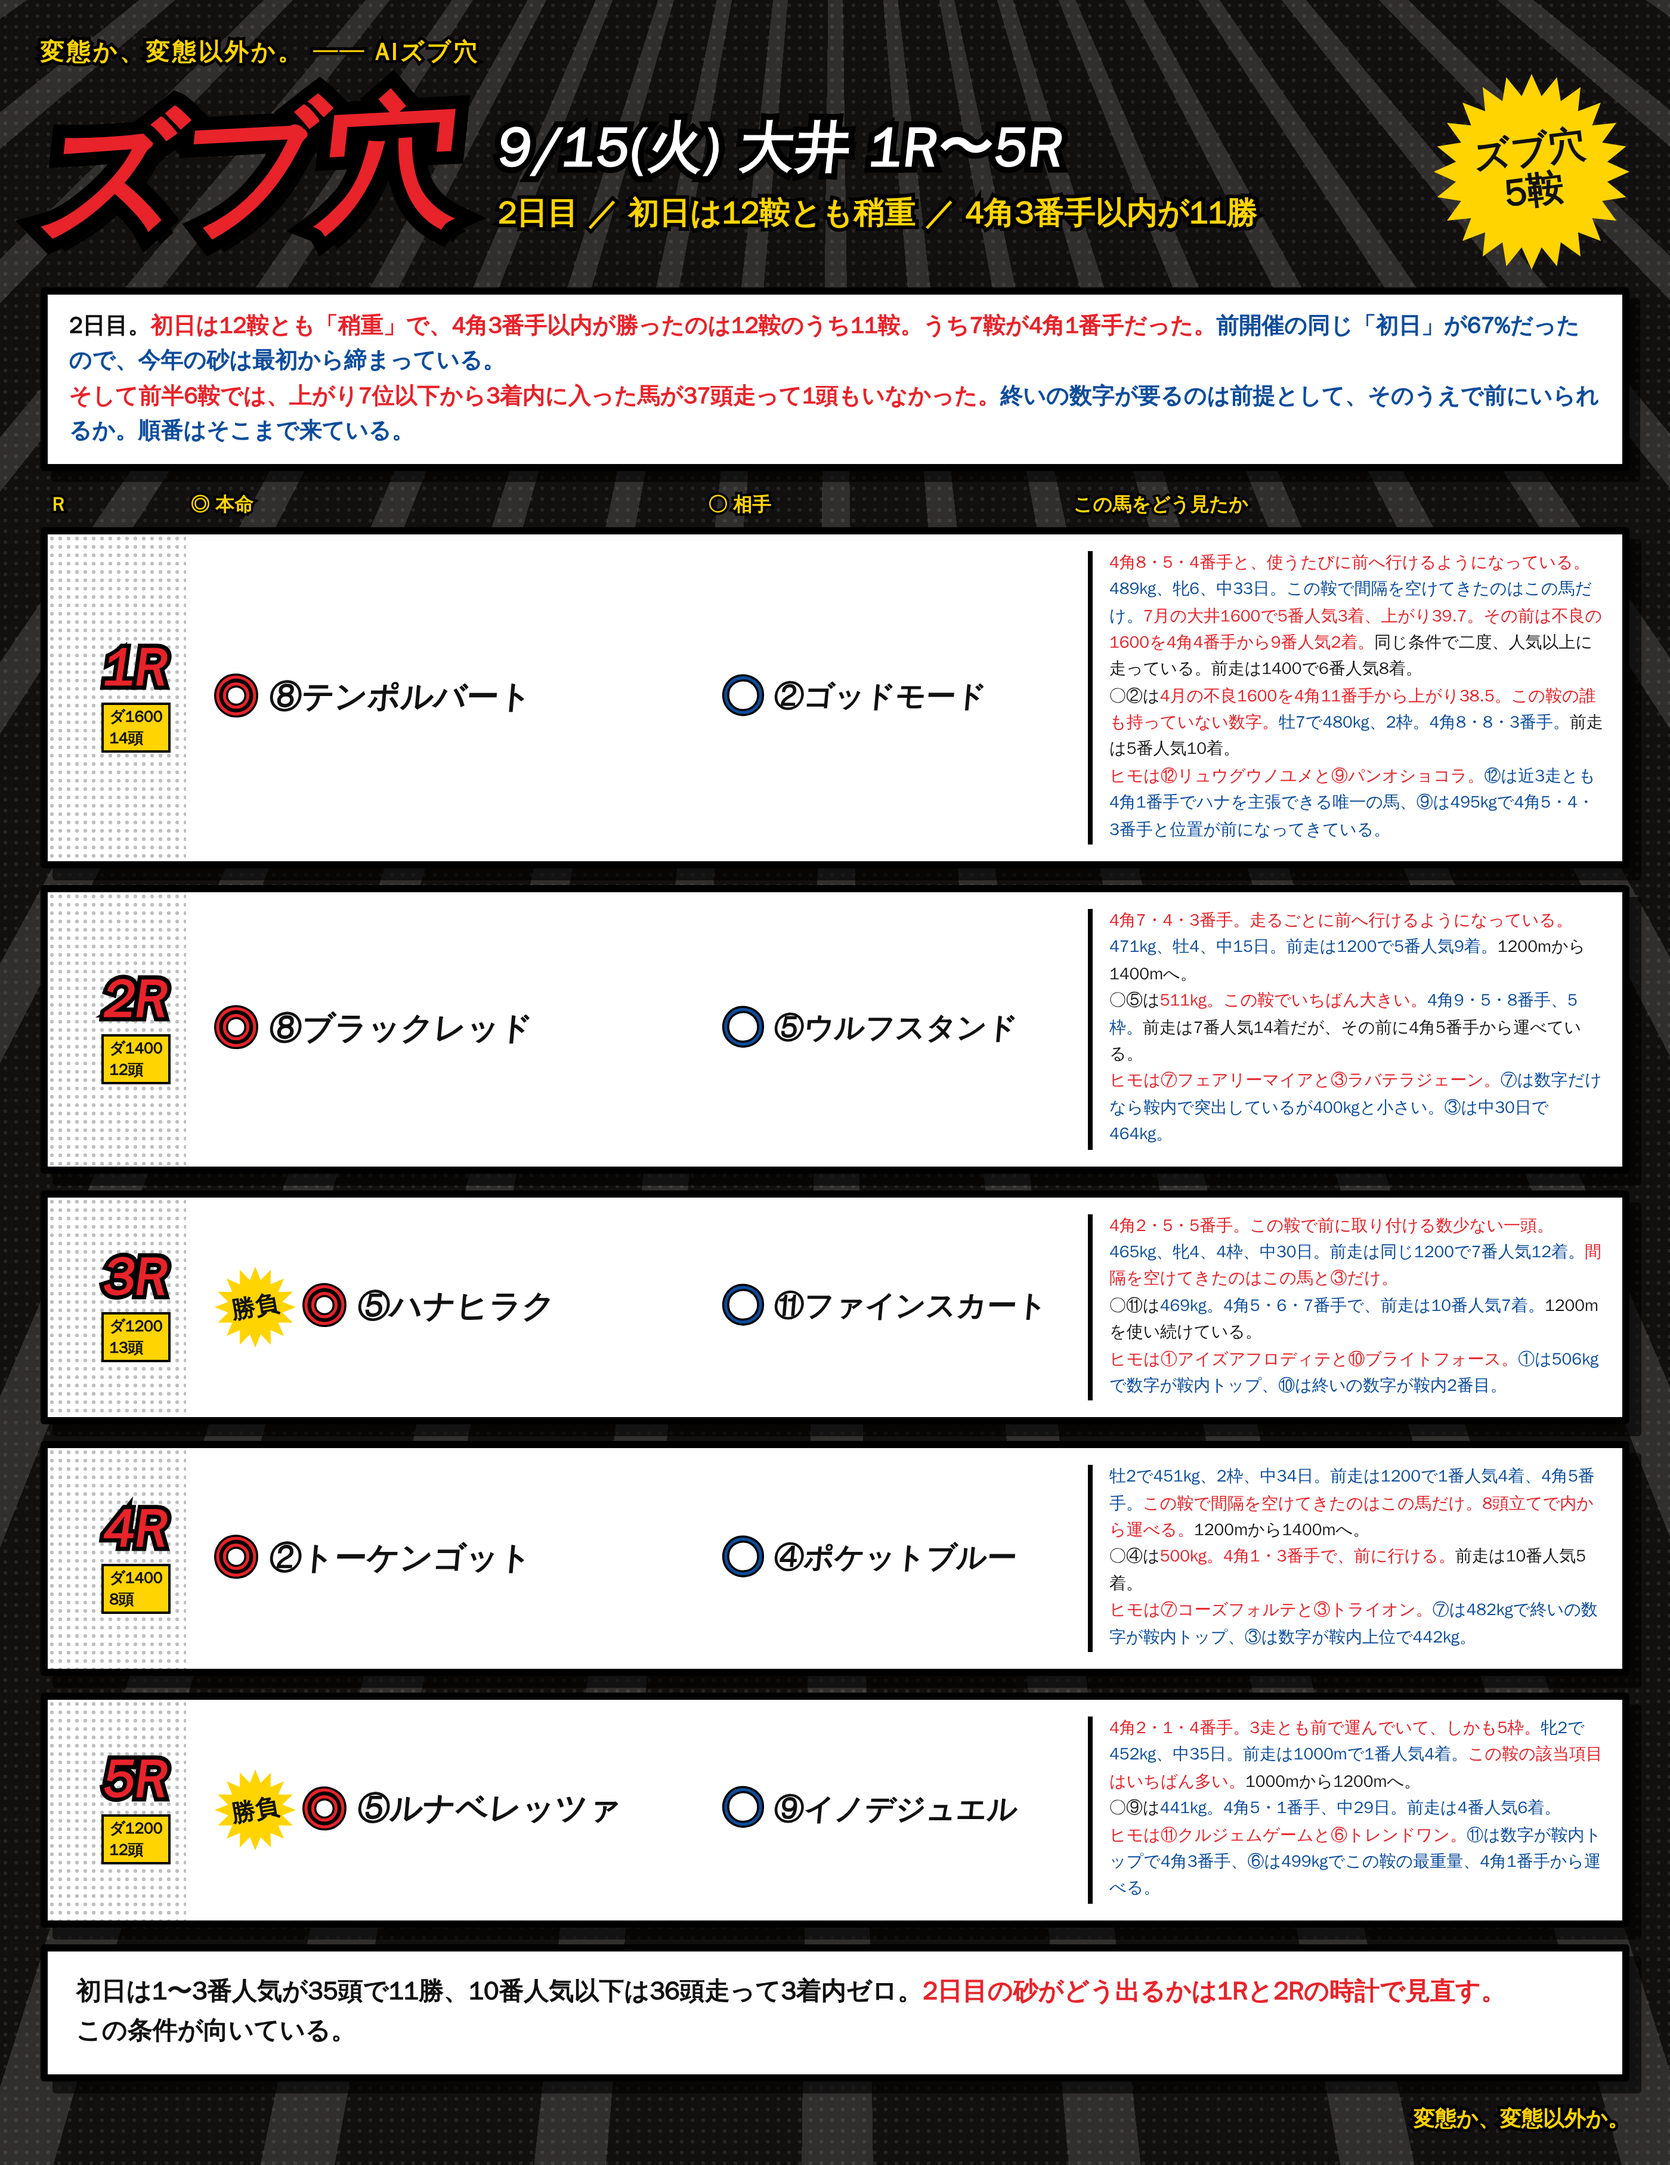
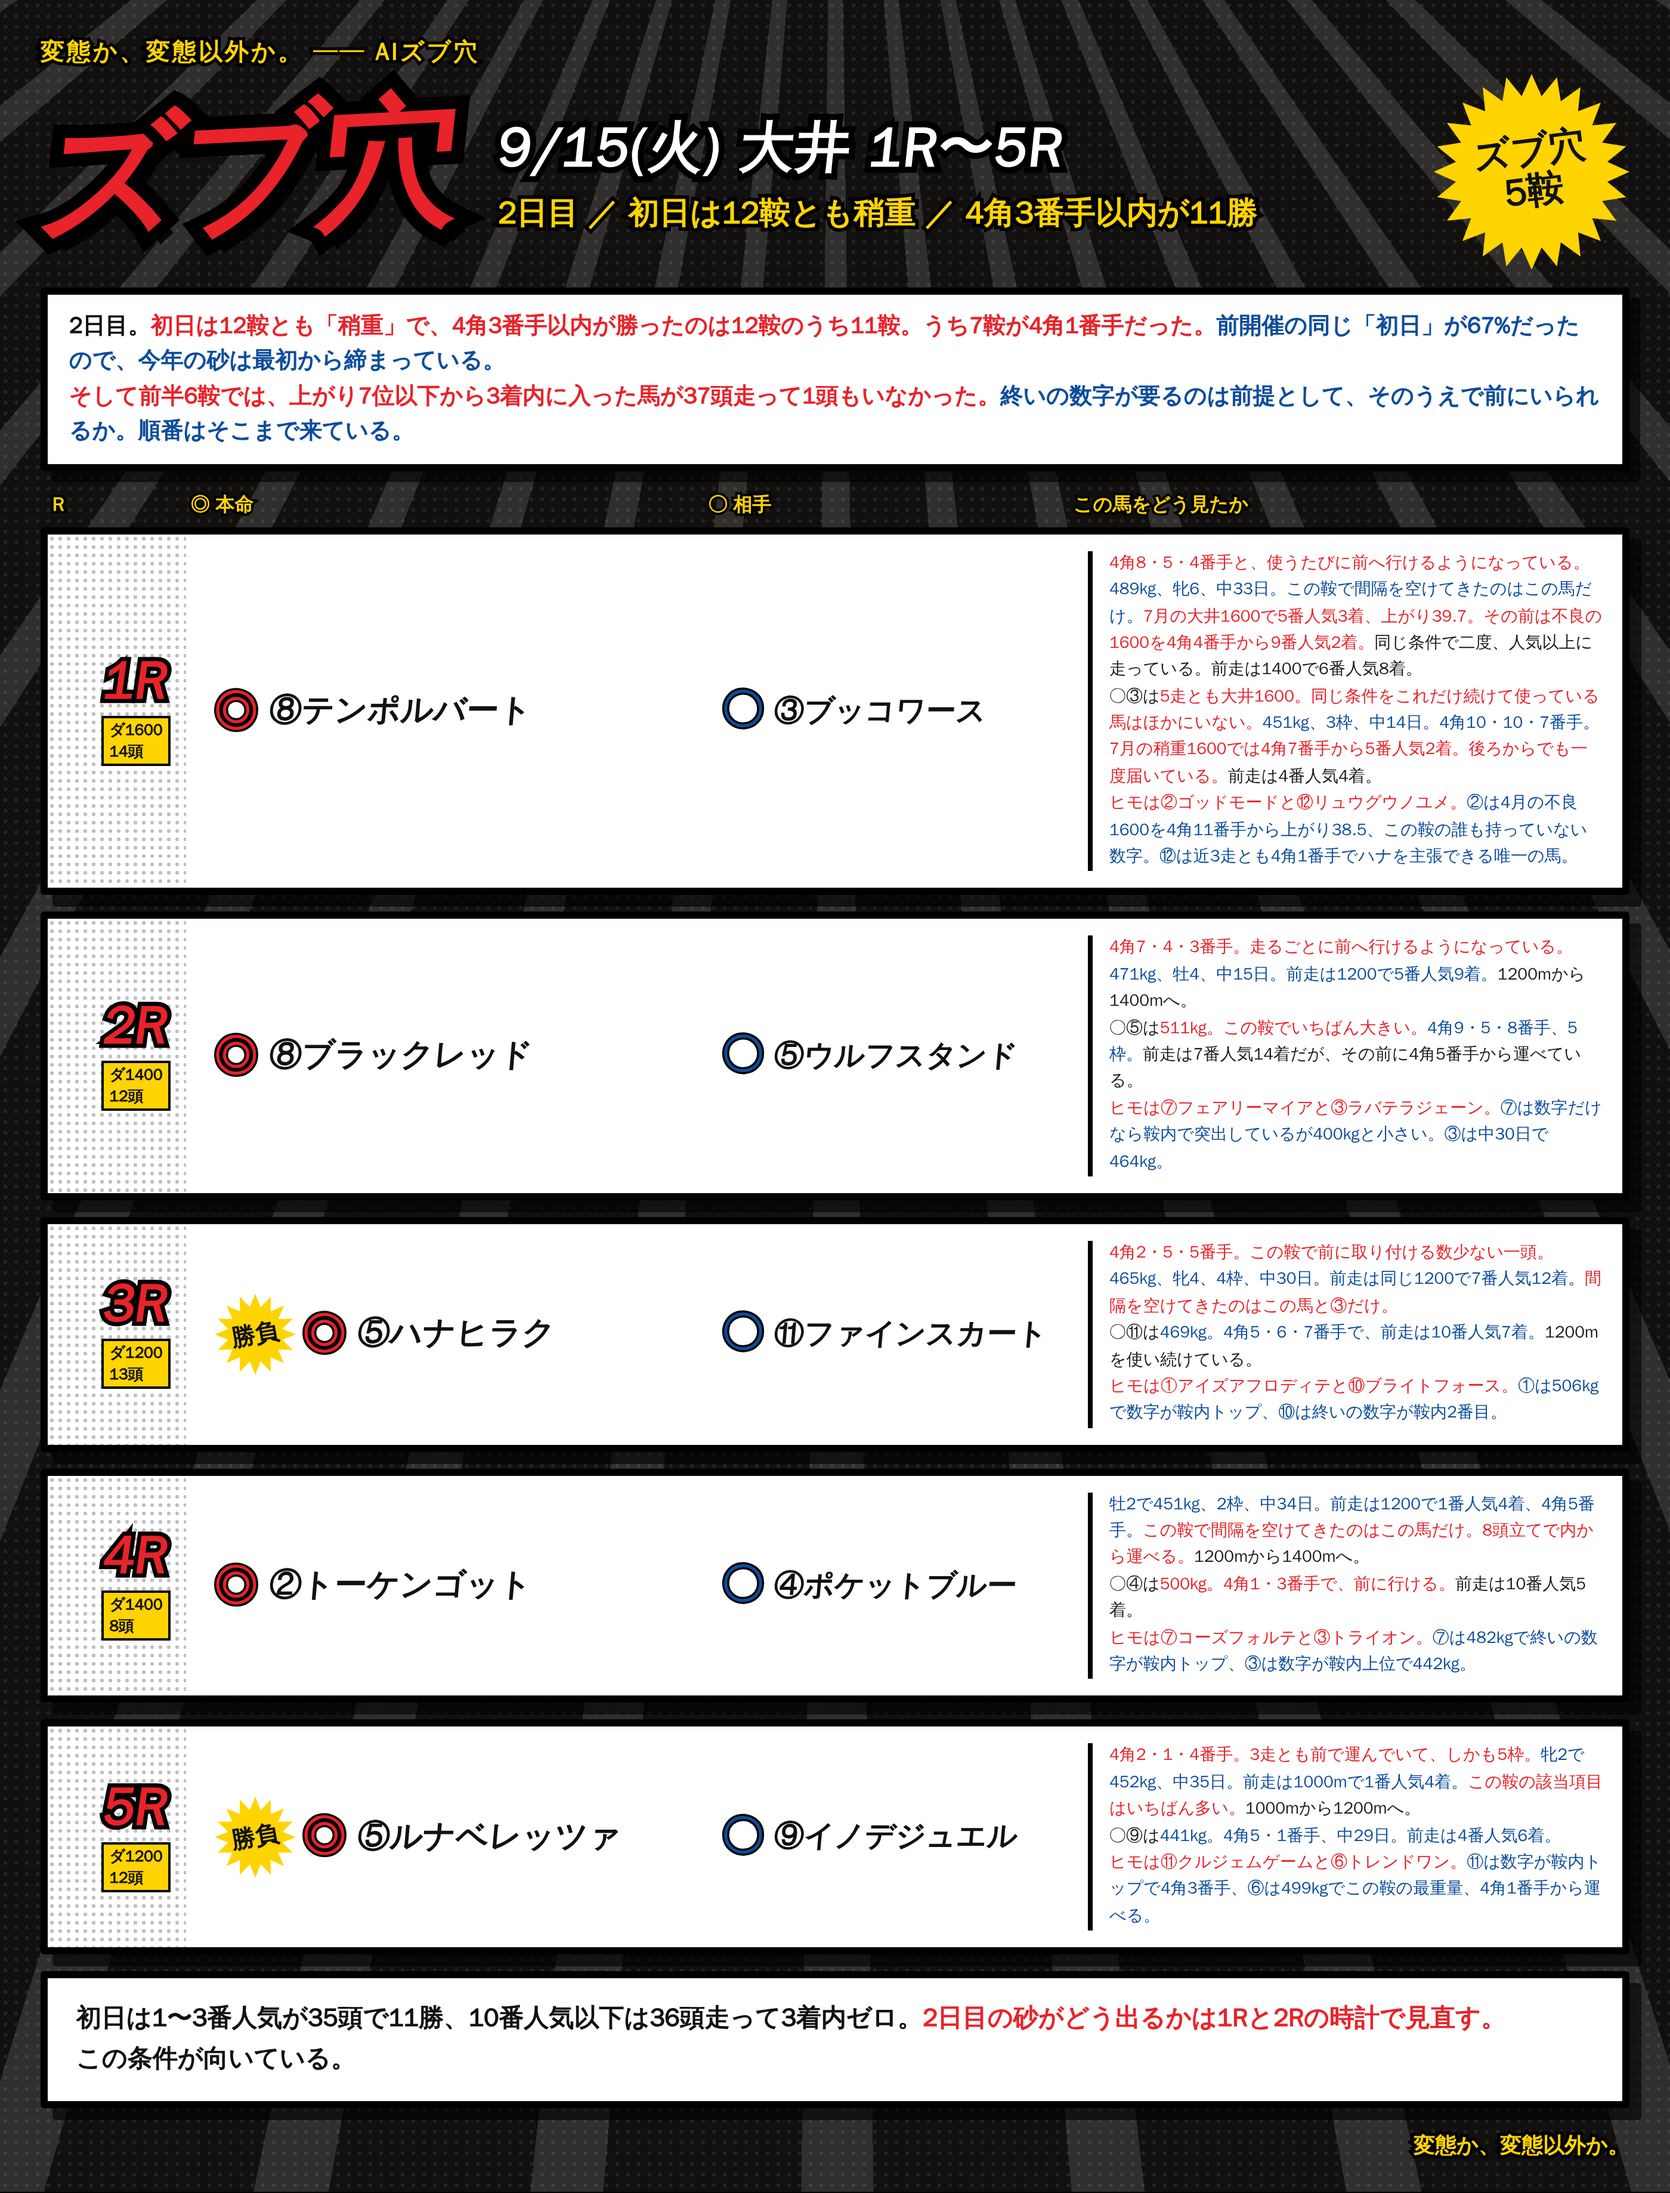
大井 9/15: 1Rを○③ブッコワース、ヒモに②ゴッドモードと⑫リュウグウノユメ
Claude-Session: https://claude.ai/code/session_01RoHscZkr96FNaxQWvUqgEw

diff --git a/notes/live/2026-09-15/oi_1_5.html b/notes/live/2026-09-15/oi_1_5.html
@@ -81,7 +81,7 @@
 <div class="head"><div class="gekiga">ズブ穴</div><div class="dateblk"><div class="d1">9/15(火) 大井 1R〜5R</div><div class="d2">2日目 ／ 初日は12鞍とも稍重 ／ 4角3番手以内が11勝</div></div><div class="burst"><span>ズブ穴<br>5鞍</span></div></div>
 <div class="lead">2日目。<span class="r">初日は12鞍とも「稍重」で、4角3番手以内が勝ったのは12鞍のうち11鞍。うち7鞍が4角1番手だった。</span><span class="b">前開催の同じ「初日」が67%だったので、今年の砂は最初から締まっている。</span><br><span class="r">そして前半6鞍では、上がり7位以下から3着内に入った馬が37頭走って1頭もいなかった。</span><span class="b">終いの数字が要るのは前提として、そのうえで前にいられるか。順番はそこまで来ている。</span></div>
 <div class="cols"><div class="cR">R</div><div class="cH">◎ 本命</div><div class="cA">○ 相手</div><div class="cM">この馬をどう見たか</div></div>
-<div class="row"><div class="corner"></div><div class="rN"><div class="n">1R</div><div class="d">ダ1600<br>14頭</div></div><div class="hm"><span class="mk">◎</span><span class="nm">⑧テンポルバート</span></div><div class="at"><span class="mk2">○</span><span class="nm2">②ゴッドモード</span></div><div class="memo"><b class="r">4角8・5・4番手と、使うたびに前へ行けるようになっている。</b><b>489kg、牝6、中33日。この鞍で間隔を空けてきたのはこの馬だけ。</b><b class="r">7月の大井1600で5番人気3着、上がり39.7。その前は不良の1600を4角4番手から9番人気2着。</b>同じ条件で二度、人気以上に走っている。前走は1400で6番人気8着。<br>○②は<b class="r">4月の不良1600を4角11番手から上がり38.5。この鞍の誰も持っていない数字。</b><b>牡7で480kg、2枠。4角8・8・3番手。</b>前走は5番人気10着。<br><b class="r">ヒモは⑫リュウグウノユメと⑨パンオショコラ。</b><b>⑫は近3走とも4角1番手でハナを主張できる唯一の馬、⑨は495kgで4角5・4・3番手と位置が前になってきている。</b></div></div>
+<div class="row"><div class="corner"></div><div class="rN"><div class="n">1R</div><div class="d">ダ1600<br>14頭</div></div><div class="hm"><span class="mk">◎</span><span class="nm">⑧テンポルバート</span></div><div class="at"><span class="mk2">○</span><span class="nm2">③ブッコワース</span></div><div class="memo"><b class="r">4角8・5・4番手と、使うたびに前へ行けるようになっている。</b><b>489kg、牝6、中33日。この鞍で間隔を空けてきたのはこの馬だけ。</b><b class="r">7月の大井1600で5番人気3着、上がり39.7。その前は不良の1600を4角4番手から9番人気2着。</b>同じ条件で二度、人気以上に走っている。前走は1400で6番人気8着。<br>○③は<b class="r">5走とも大井1600。同じ条件をこれだけ続けて使っている馬はほかにいない。</b><b>451kg、3枠、中14日。4角10・10・7番手。</b><b class="r">7月の稍重1600では4角7番手から5番人気2着。後ろからでも一度届いている。</b>前走は4番人気4着。<br><b class="r">ヒモは②ゴッドモードと⑫リュウグウノユメ。</b><b>②は4月の不良1600を4角11番手から上がり38.5、この鞍の誰も持っていない数字。⑫は近3走とも4角1番手でハナを主張できる唯一の馬。</b></div></div>
 <div class="row"><div class="corner"></div><div class="rN"><div class="n">2R</div><div class="d">ダ1400<br>12頭</div></div><div class="hm"><span class="mk">◎</span><span class="nm">⑧ブラックレッド</span></div><div class="at"><span class="mk2">○</span><span class="nm2">⑤ウルフスタンド</span></div><div class="memo"><b class="r">4角7・4・3番手。走るごとに前へ行けるようになっている。</b><b>471kg、牡4、中15日。前走は1200で5番人気9着。</b>1200mから1400mへ。<br>○⑤は<b class="r">511kg。この鞍でいちばん大きい。</b><b>4角9・5・8番手、5枠。</b>前走は7番人気14着だが、その前に4角5番手から運べている。<br><b class="r">ヒモは⑦フェアリーマイアと③ラバテラジェーン。</b><b>⑦は数字だけなら鞍内で突出しているが400kgと小さい。③は中30日で464kg。</b></div></div>
 <div class="row"><div class="corner"></div><div class="rN"><div class="n">3R</div><div class="d">ダ1200<br>13頭</div></div><div class="hm"><div class="sb"><span>勝負</span></div><span class="mk">◎</span><span class="nm">⑤ハナヒラク</span></div><div class="at"><span class="mk2">○</span><span class="nm2">⑪ファインスカート</span></div><div class="memo"><b class="r">4角2・5・5番手。この鞍で前に取り付ける数少ない一頭。</b><b>465kg、牝4、4枠、中30日。前走は同じ1200で7番人気12着。</b><b class="r">間隔を空けてきたのはこの馬と③だけ。</b><br>○⑪は<b>469kg。4角5・6・7番手で、前走は10番人気7着。</b>1200mを使い続けている。<br><b class="r">ヒモは①アイズアフロディテと⑩ブライトフォース。</b><b>①は506kgで数字が鞍内トップ、⑩は終いの数字が鞍内2番目。</b></div></div>
 <div class="row"><div class="corner"></div><div class="rN"><div class="n">4R</div><div class="d">ダ1400<br>8頭</div></div><div class="hm"><span class="mk">◎</span><span class="nm">②トーケンゴット</span></div><div class="at"><span class="mk2">○</span><span class="nm2">④ポケットブルー</span></div><div class="memo"><b>牡2で451kg、2枠、中34日。前走は1200で1番人気4着、4角5番手。</b><b class="r">この鞍で間隔を空けてきたのはこの馬だけ。8頭立てで内から運べる。</b>1200mから1400mへ。<br>○④は<b class="r">500kg。4角1・3番手で、前に行ける。</b>前走は10番人気5着。<br><b class="r">ヒモは⑦コーズフォルテと③トライオン。</b><b>⑦は482kgで終いの数字が鞍内トップ、③は数字が鞍内上位で442kg。</b></div></div>

diff --git a/notes/live/2026-09-15/README.md b/notes/live/2026-09-15/README.md
@@ -12,7 +12,7 @@
 
 | R | 条件 | ◎ | ○ | ヒモ |
 |---|---|---|---|---|
-| 1R | ダ1600 14頭 Ｃ３ | ⑧テンポルバート | ②ゴッドモード | ⑫リュウグウノユメ ⑨パンオショコラ |
+| 1R | ダ1600 14頭 Ｃ３ | ⑧テンポルバート | ③ブッコワース | ②ゴッドモード ⑫リュウグウノユメ |
 | 2R | ダ1400 12頭 Ｃ３ | ⑧ブラックレッド | ⑤ウルフスタンド | ⑦フェアリーマイア ③ラバテラジェーン |
 | **3R【勝負】** | ダ1200 13頭 Ｃ３ | ⑤ハナヒラク | ⑪ファインスカート | ①アイズアフロディテ ⑩ブライトフォース |
 | 4R | ダ1400 8頭 2歳 | ②トーケンゴット | ④ポケットブルー | ⑦コーズフォルテ ③トライオン |
@@ -21,8 +21,8 @@
 ◎はすべて前走で馬券になっていない馬から。勝負は3Rと5R。
 
 内部メモ（カードには載せない）:
-- 1R（指定）◎⑧ 399=5.7 本物2 489k 4角8・5・4 中33日 田中洸／○② 399=10.6 エッジ5 鞍内2位 480k 2枠（4月の不良1600で4角11番手から上がり38.5）／ヒモ⑫ 4角1・1・1・445k・⑨ 495k 4角5・4・3
-- 1R③ブッコワースは印から外した。5走とも大井1600で4角10・10・7・7・8番手、上がり鞍内7位、399=6.9も鞍内7位。位置が届かない形と判断（消しではなくヒモ次点）
+- 1R（指定）◎⑧ 399=5.7 本物2 489k 4角8・5・4 中33日 田中洸／○② 399=10.6 エッジ5 鞍内2位 480k 2枠（4月の不良1600で4角11番手から上がり38.5）／○③ 399=6.9 エッジ3 本物2 451k 3枠 4角10・10・7（7月の稍重1600で4角7番手から5番人気2着）／ヒモ② 399=10.6 エッジ5 鞍内2位・⑫ 4角1・1・1 445k
+- 1R③ブッコワースは当初印から外していた（4角10・10・7・7・8番手、上がり鞍内7位、399=6.9も鞍内7位）。指定により○に。7月の稍重1600で4角7番手から2着があり、後ろからでも一度届いている
 - 2R ◎⑧ 399=8.4 471k 4角7・4・3／○⑤ 399=10.6 本物3 511k 5枠／ヒモ⑦ 399=13.4 エッジ5 本物3 鞍内トップだが400kg・③ 399=7.6 本物3 中30日
 - 3R ◎⑤ 399=7.6 エッジ3 465k 4角2・5・5 4枠 中30日／○⑪ 399=9.0 本物3 469k／ヒモ① 399=11.0 エッジ4 本物3 鞍内トップ 506k・⑩ 399=9.2 上がり鞍内2位
 - 4R ◎② 399=5.0 エッジ3 鞍内2位 451k 中34日／○④ 500k 4角1・3／ヒモ⑦ 上がり鞍内トップ 482k・③ 399=6.9 鞍内トップ
